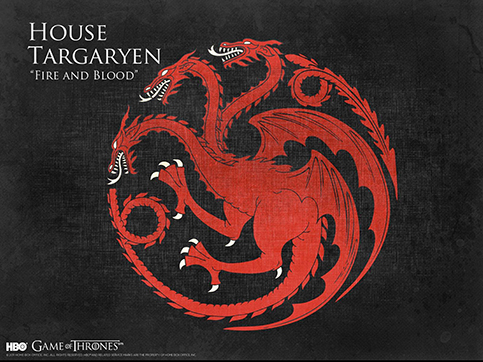
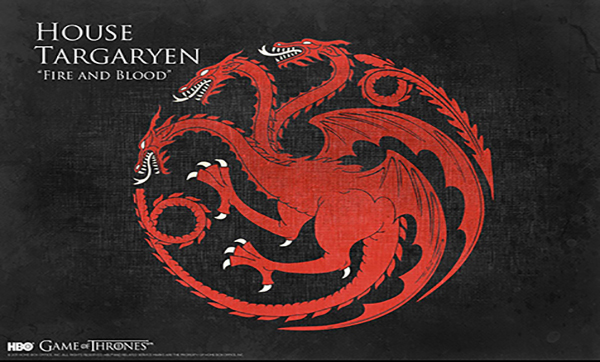
fixed jpeg issue

diff --git a/css/GOT_master.css b/css/GOT_master.css
@@ -31,7 +31,6 @@ main {
 #imageContainer {
 	width:600px;
 	height:360px;
-	background-color:grey;
 	margin:0 auto;
 
 	/*uncomment below to hide house banners*/
@@ -43,7 +42,7 @@ main {
 
 #bottomNav
 {
-  margin-top:30px; 
+  margin-top:30px;
 }
 
 #navList li
@@ -142,6 +141,6 @@ video {
 [data-icon]
 {
   font-size:3em;
-  color: white;
+  color: grey;
   cursor: pointer;
 }
